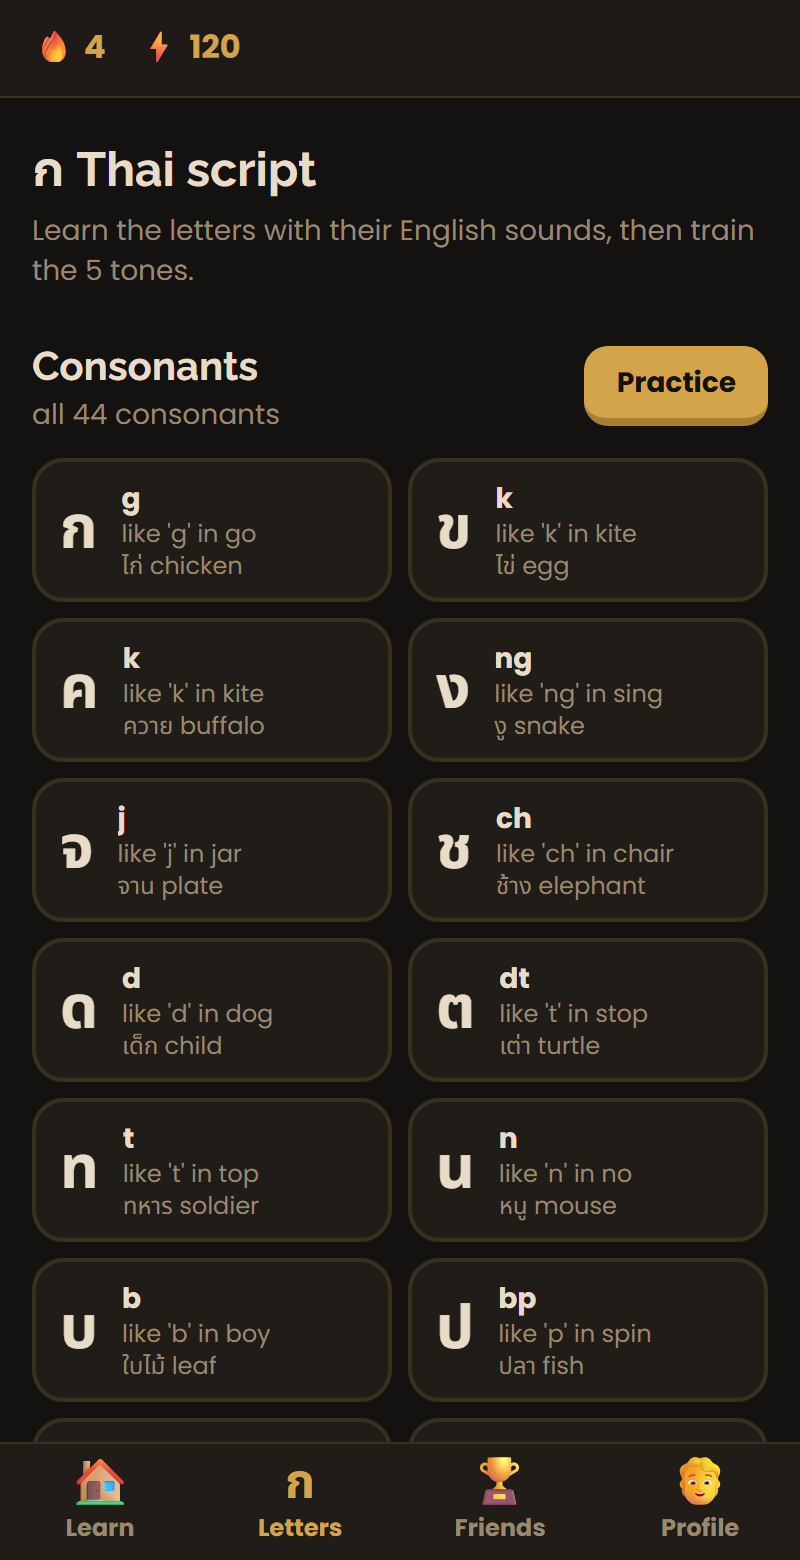
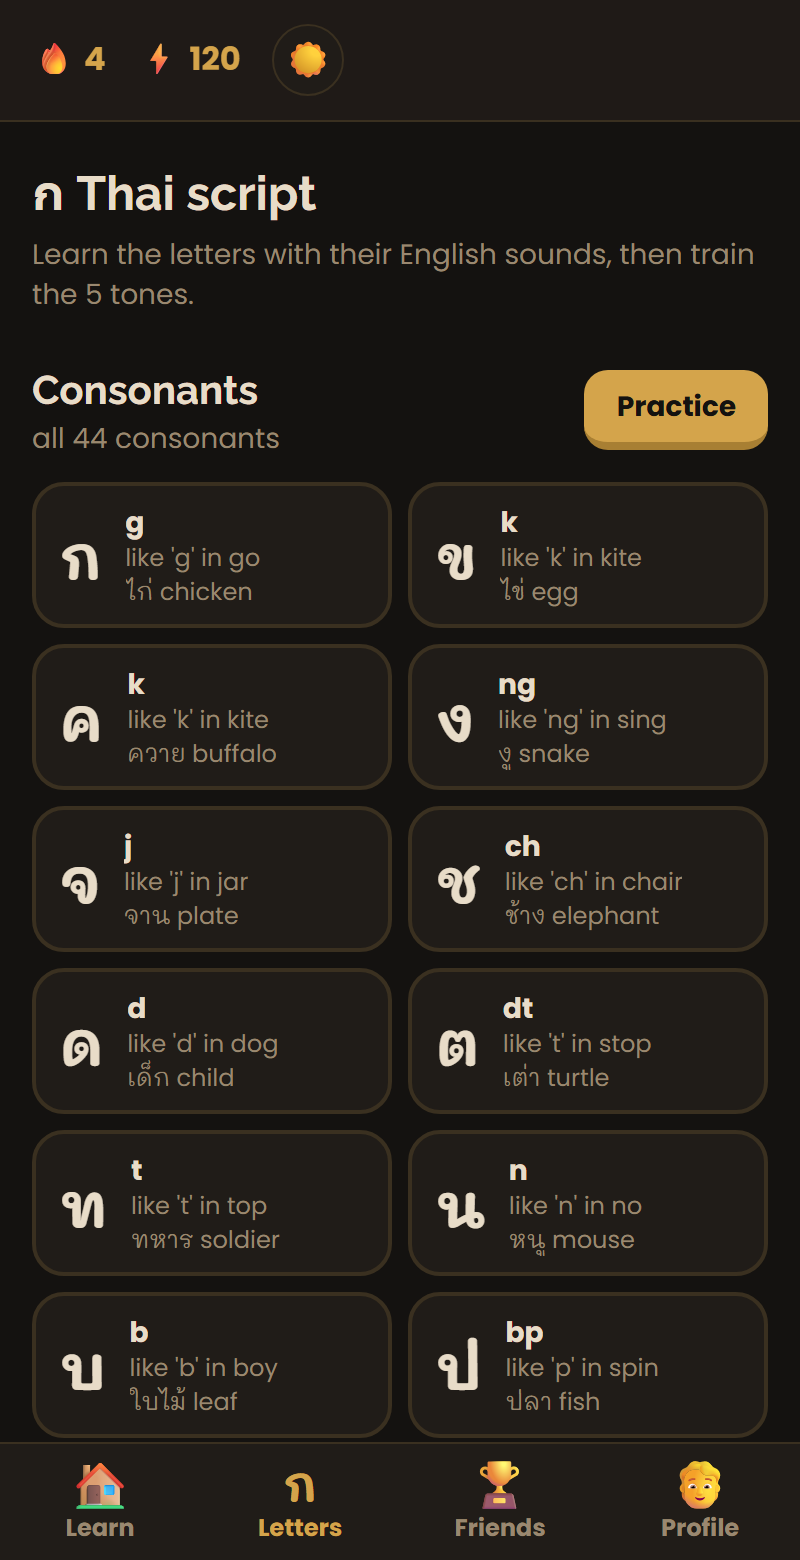
Refresh README screenshots (light+dark mix) + add Friends and sample lesson

diff --git a/README.md b/README.md
@@ -4,7 +4,7 @@
 
 **Learn Thai the fun way — a gamified, inspired by Duolingo web app built for expats and beginners.**
 
-Picture-based vocabulary · placement test · skill tree · spaced repetition · alphabet & tone trainer · accounts & friends.
+Picture-based vocabulary · placement test · skill tree · spaced repetition · alphabet & tone trainer · polite gendered phrasing · light & dark themes · accounts & friends.
 
 [**▶ Live demo**](https://thai-buddy.vercel.app) · [Setup](SUPABASE_SETUP.md) · [Deploy](DEPLOY.md)
 
@@ -19,28 +19,33 @@ Picture-based vocabulary · placement test · skill tree · spaced repetition ·
 
 ## Screenshots
 
-| Sign in / Sign up | Learn map | Alphabet & tones |
+| Sign in · _light_ | Learn map · _light_ | Sample lesson · _dark_ |
 |:---:|:---:|:---:|
-| ![Login](media/login.png) | ![Learn](media/learn.png) | ![Letters](media/letters.png) |
+| ![Login](media/login.png) | ![Learn](media/learn.png) | ![Lesson](media/lesson.png) |
+| **Alphabet & tones · _dark_** | **Friends · _light_** | |
+| ![Letters](media/letters.png) | ![Friends](media/friends.png) | |
 
 ---
 
 ## Features
 
 - 🎯 **Placement diagnostic** — a short adaptive quiz sorts you into one of 5 levels (Absolute Beginner → Advanced).
-- 🗺️ **Skill tree** — colorful units and lessons that unlock in sequence, with a daily-goal bar.
+- 🗺️ **Skill tree** — units and lessons that unlock in sequence, with a daily-goal bar.
 - 🧠 **Real teaching method (TEFL/ESL)** — each lesson *presents* new words before *practising* them, and mistakes are recycled until you get them right (no "lives" pressure).
 - 🔁 **Spaced repetition** — a Leitner system schedules every word you learn for review at growing intervals.
 - 🖼️ **Picture-based vocabulary** — every word pairs a clear icon with its English label (open-source glyphs, **not** AI-generated).
+- ✍️ **Clear, handwritten Thai** — set in *Mali* so the script feels natural but stays legible for learners.
+- 🙏 **Polite, natural Thai** — phrases use the gendered polite ending (**ค่ะ / ครับ**), and the content teaches what Thais actually say (e.g. *แล้วเจอกัน* for "bye", not the stiff textbook form).
 - ก **Alphabet & Tone Trainer** — all 44 consonants and the key vowels with English-sound equivalents, plus a trainer for Thai's 5 tones.
 - 🛒 **Real-life content for expats** — numbers & counting with classifiers, the market, ordering food, directions, and essential phrases.
 - 🔊 **Audio** — tap any word to hear it (browser text-to-speech).
+- 🌗 **Light & dark themes** — warm "Refined Ember" palette, light by default, with a one-tap toggle.
 - 👤 **Accounts & friends** — email / Google sign-in, cloud-synced progress, and a friends leaderboard.
 - 📱 **Installable PWA** — works in any browser and on the phone home screen.
 
 ## How it works
 
-1. **Sign in** (email or Google) and pick a username.
+1. **Sign in** (email or Google), pick a username, and choose your polite ending (ค่ะ / ครับ — or skip and keep the default).
 2. **Placement test** → your starting level.
 3. **Learn map** → tap a lesson. Each lesson teaches the new words, then quizzes them with mixed exercise types: pick-the-picture, pick-the-meaning, pick-the-Thai, and listen-and-choose.
 4. **Letters tab** → study the script and train tones.
@@ -64,7 +69,7 @@ Picture-based vocabulary · placement test · skill tree · spaced repetition ·
 | Styling | Tailwind CSS v4 |
 | Auth / DB | Supabase (Postgres, Auth, RLS) |
 | Hosting | Vercel |
-| Fonts | Geist (UI) + Noto Sans Thai (script) |
+| Fonts | Poppins + Raleway (UI) · Mali (handwritten Thai) |
 
 ## Getting started
 
@@ -88,9 +93,9 @@ cp .env.local.example .env.local   # then paste your Supabase URL + anon key
 ```
 src/
   app/              # routes: onboarding, diagnostic, learn, lesson, letters, review, leaderboard, profile
-  components/       # LessonRunner, Quiz, TopBar, BottomNav
+  components/       # LessonRunner, Quiz, TopBar, BottomNav, ThemeToggle, GenderChoice
   data/             # words.ts, alphabet.ts, curriculum.ts (the content)
-  lib/              # progress (state + SRS), auth, db, exercises, supabase client/server
+  lib/              # progress (state + SRS), auth, db, theme, polite, exercises, supabase client/server
   proxy.ts          # keeps the Supabase session fresh
 supabase/schema.sql # tables + row-level-security policies
 ```